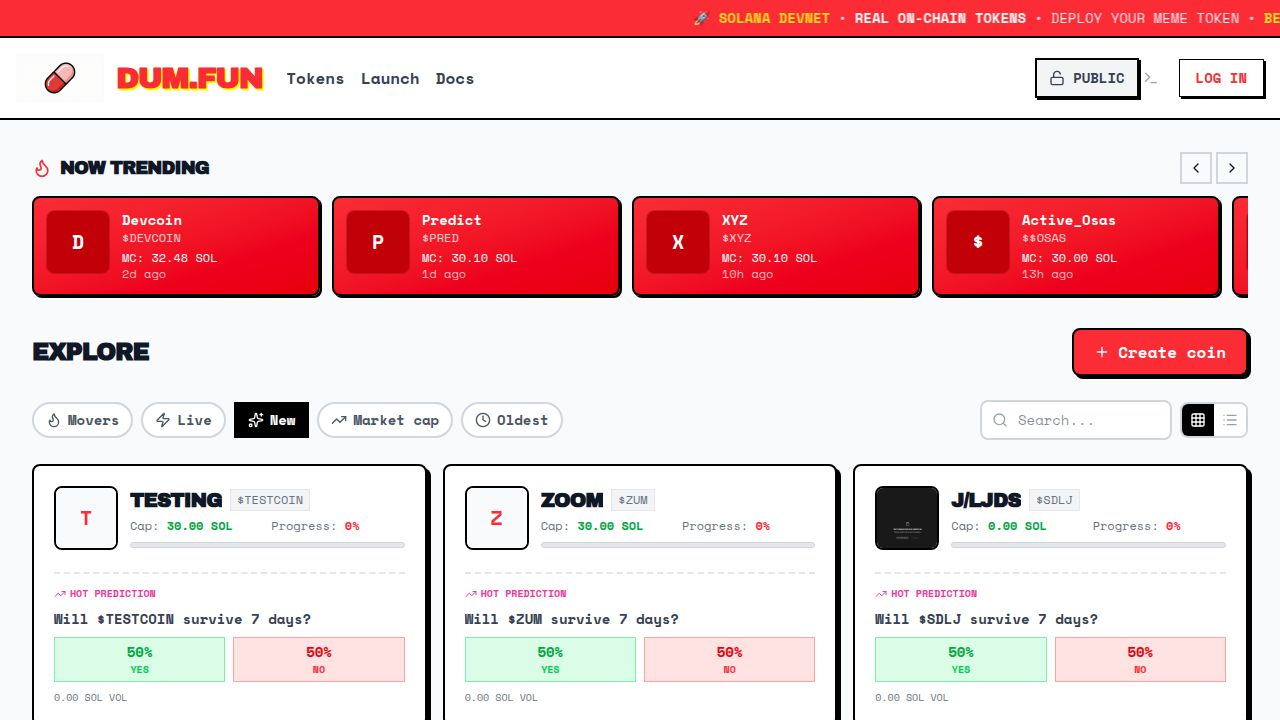
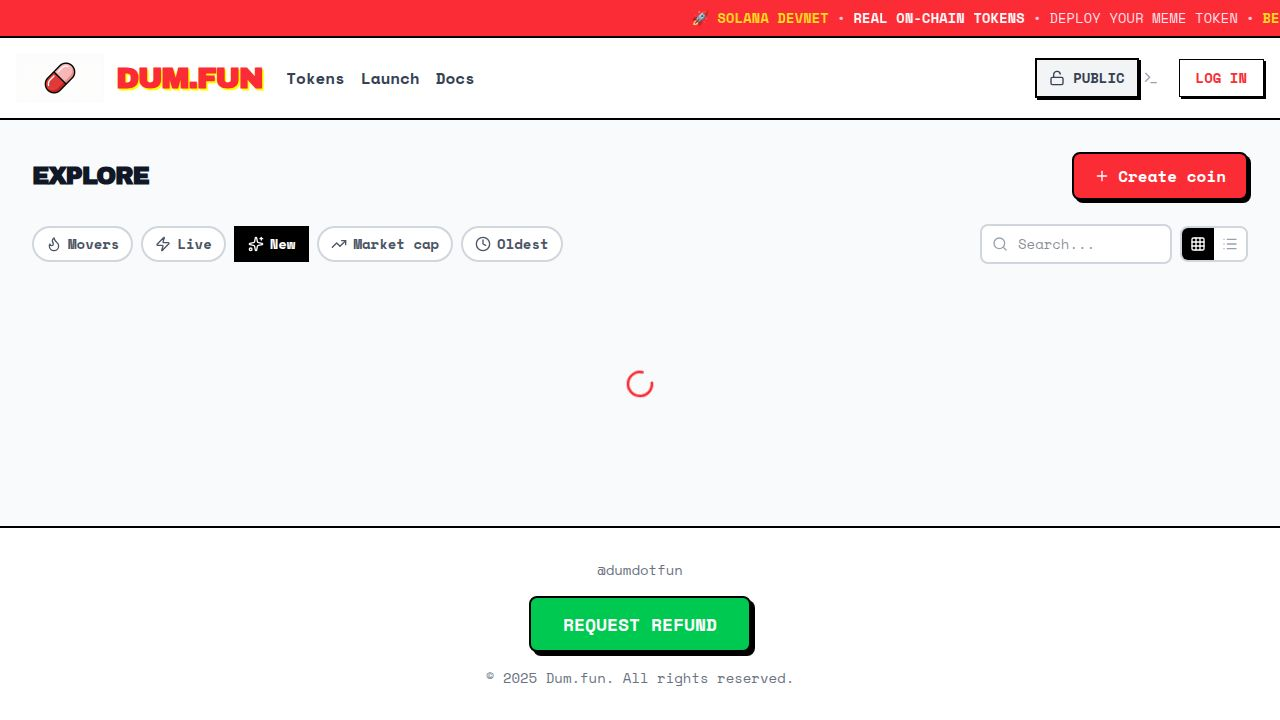
Update market cap display to show value in USD
Refactors the TokenCard component to accept and display SOL price in USD. Updates the tokens page and user profile page to fetch SOL price and pass it to the TokenCard, ensuring market capitalization is consistently shown in USD across the application.

Replit-Commit-Author: Agent
Replit-Commit-Session-Id: d22c887e-f7c9-4f11-8cfa-3381e12c8f08
Replit-Commit-Checkpoint-Type: full_checkpoint
Replit-Commit-Event-Id: 2ba1b786-0d55-4bda-bf92-4ab24ecd0420
Replit-Commit-Screenshot-Url: https://storage.googleapis.com/screenshot-production-us-central1/8fdf2e2f-b03c-41f5-9148-a9b477ad3849/d22c887e-f7c9-4f11-8cfa-3381e12c8f08/D79GLTh

diff --git a/client/src/pages/user-profile.tsx b/client/src/pages/user-profile.tsx
@@ -7,6 +7,19 @@ import { useState } from "react";
 import { ExternalLink, Copy, Check, Coins, Calendar, ArrowLeft } from "lucide-react";
 import defaultAvatar from "@assets/generated_images/derpy_blob_meme_mascot.png";
 
+function formatMarketCap(mcSol: number, solPrice: number | null): string {
+  const usdValue = solPrice ? mcSol * solPrice : null;
+  if (usdValue && usdValue >= 1000000) return `$${(usdValue / 1000000).toFixed(2)}M`;
+  if (usdValue && usdValue >= 1000) return `$${(usdValue / 1000).toFixed(1)}K`;
+  if (usdValue) return `$${usdValue.toFixed(0)}`;
+  return `${mcSol.toFixed(2)} SOL`;
+}
+
+interface SolPrice {
+  price: number;
+  currency: string;
+}
+
 interface UserToken {
   mint: string;
   name: string;
@@ -37,6 +50,16 @@ export default function UserProfilePage() {
       return res.json();
     },
     enabled: !!wallet,
+  });
+
+  const { data: solPrice } = useQuery<SolPrice>({
+    queryKey: ["sol-price"],
+    queryFn: async () => {
+      const res = await fetch("/api/sol-price");
+      if (!res.ok) throw new Error("Failed to fetch SOL price");
+      return res.json();
+    },
+    refetchInterval: 30000,
   });
 
   const copyWallet = () => {
@@ -168,7 +191,7 @@ export default function UserProfilePage() {
                     </div>
                     <div className="text-right">
                       <div className={`font-bold ${privateMode ? "text-[#39FF14]" : "text-green-600"}`}>
-                        {token.marketCapSol.toFixed(2)} SOL
+                        {formatMarketCap(token.marketCapSol, solPrice?.price || null)}
                       </div>
                       <div className={`text-xs ${privateMode ? "text-[#39FF14]/50" : "text-gray-400"}`}>Market Cap</div>
                     </div>

diff --git a/client/src/components/token-card.tsx b/client/src/components/token-card.tsx
@@ -28,9 +28,18 @@ interface TokenWithPredictions {
 
 interface TokenCardProps {
   token: TokenWithPredictions;
+  solPrice?: number | null;
 }
 
-export function TokenCard({ token }: TokenCardProps) {
+function formatMarketCap(mcSol: number, solPrice: number | null): string {
+  const usdValue = solPrice ? mcSol * solPrice : null;
+  if (usdValue && usdValue >= 1000000) return `$${(usdValue / 1000000).toFixed(2)}M`;
+  if (usdValue && usdValue >= 1000) return `$${(usdValue / 1000).toFixed(1)}K`;
+  if (usdValue) return `$${usdValue.toFixed(0)}`;
+  return `${mcSol.toFixed(2)} SOL`;
+}
+
+export function TokenCard({ token, solPrice = null }: TokenCardProps) {
   const { privateMode } = usePrivacy();
   const topPrediction = token.predictions?.[0];
   
@@ -97,7 +106,7 @@ export function TokenCard({ token }: TokenCardProps) {
               <div>
                 <span className={privateMode ? "text-[#39FF14]/80" : "text-gray-500"}>Cap: </span>
                 <span className={`font-bold ${privateMode ? "text-white" : "text-green-600"}`}>
-                  {privateMode ? "◈ " : ""}{token.marketCapSol.toFixed(2)} SOL
+                  {privateMode ? "◈ " : ""}{formatMarketCap(token.marketCapSol, solPrice)}
                 </span>
               </div>
               <div>

diff --git a/client/src/pages/tokens.tsx b/client/src/pages/tokens.tsx
@@ -339,7 +339,7 @@ export default function TokensPage() {
         ) : viewMode === "grid" ? (
           <div className="grid grid-cols-1 md:grid-cols-2 lg:grid-cols-3 gap-4">
             {sortedTokens.map((token) => (
-              <TokenCard key={token.mint} token={token} />
+              <TokenCard key={token.mint} token={token} solPrice={solPrice?.price || null} />
             ))}
           </div>
         ) : (
